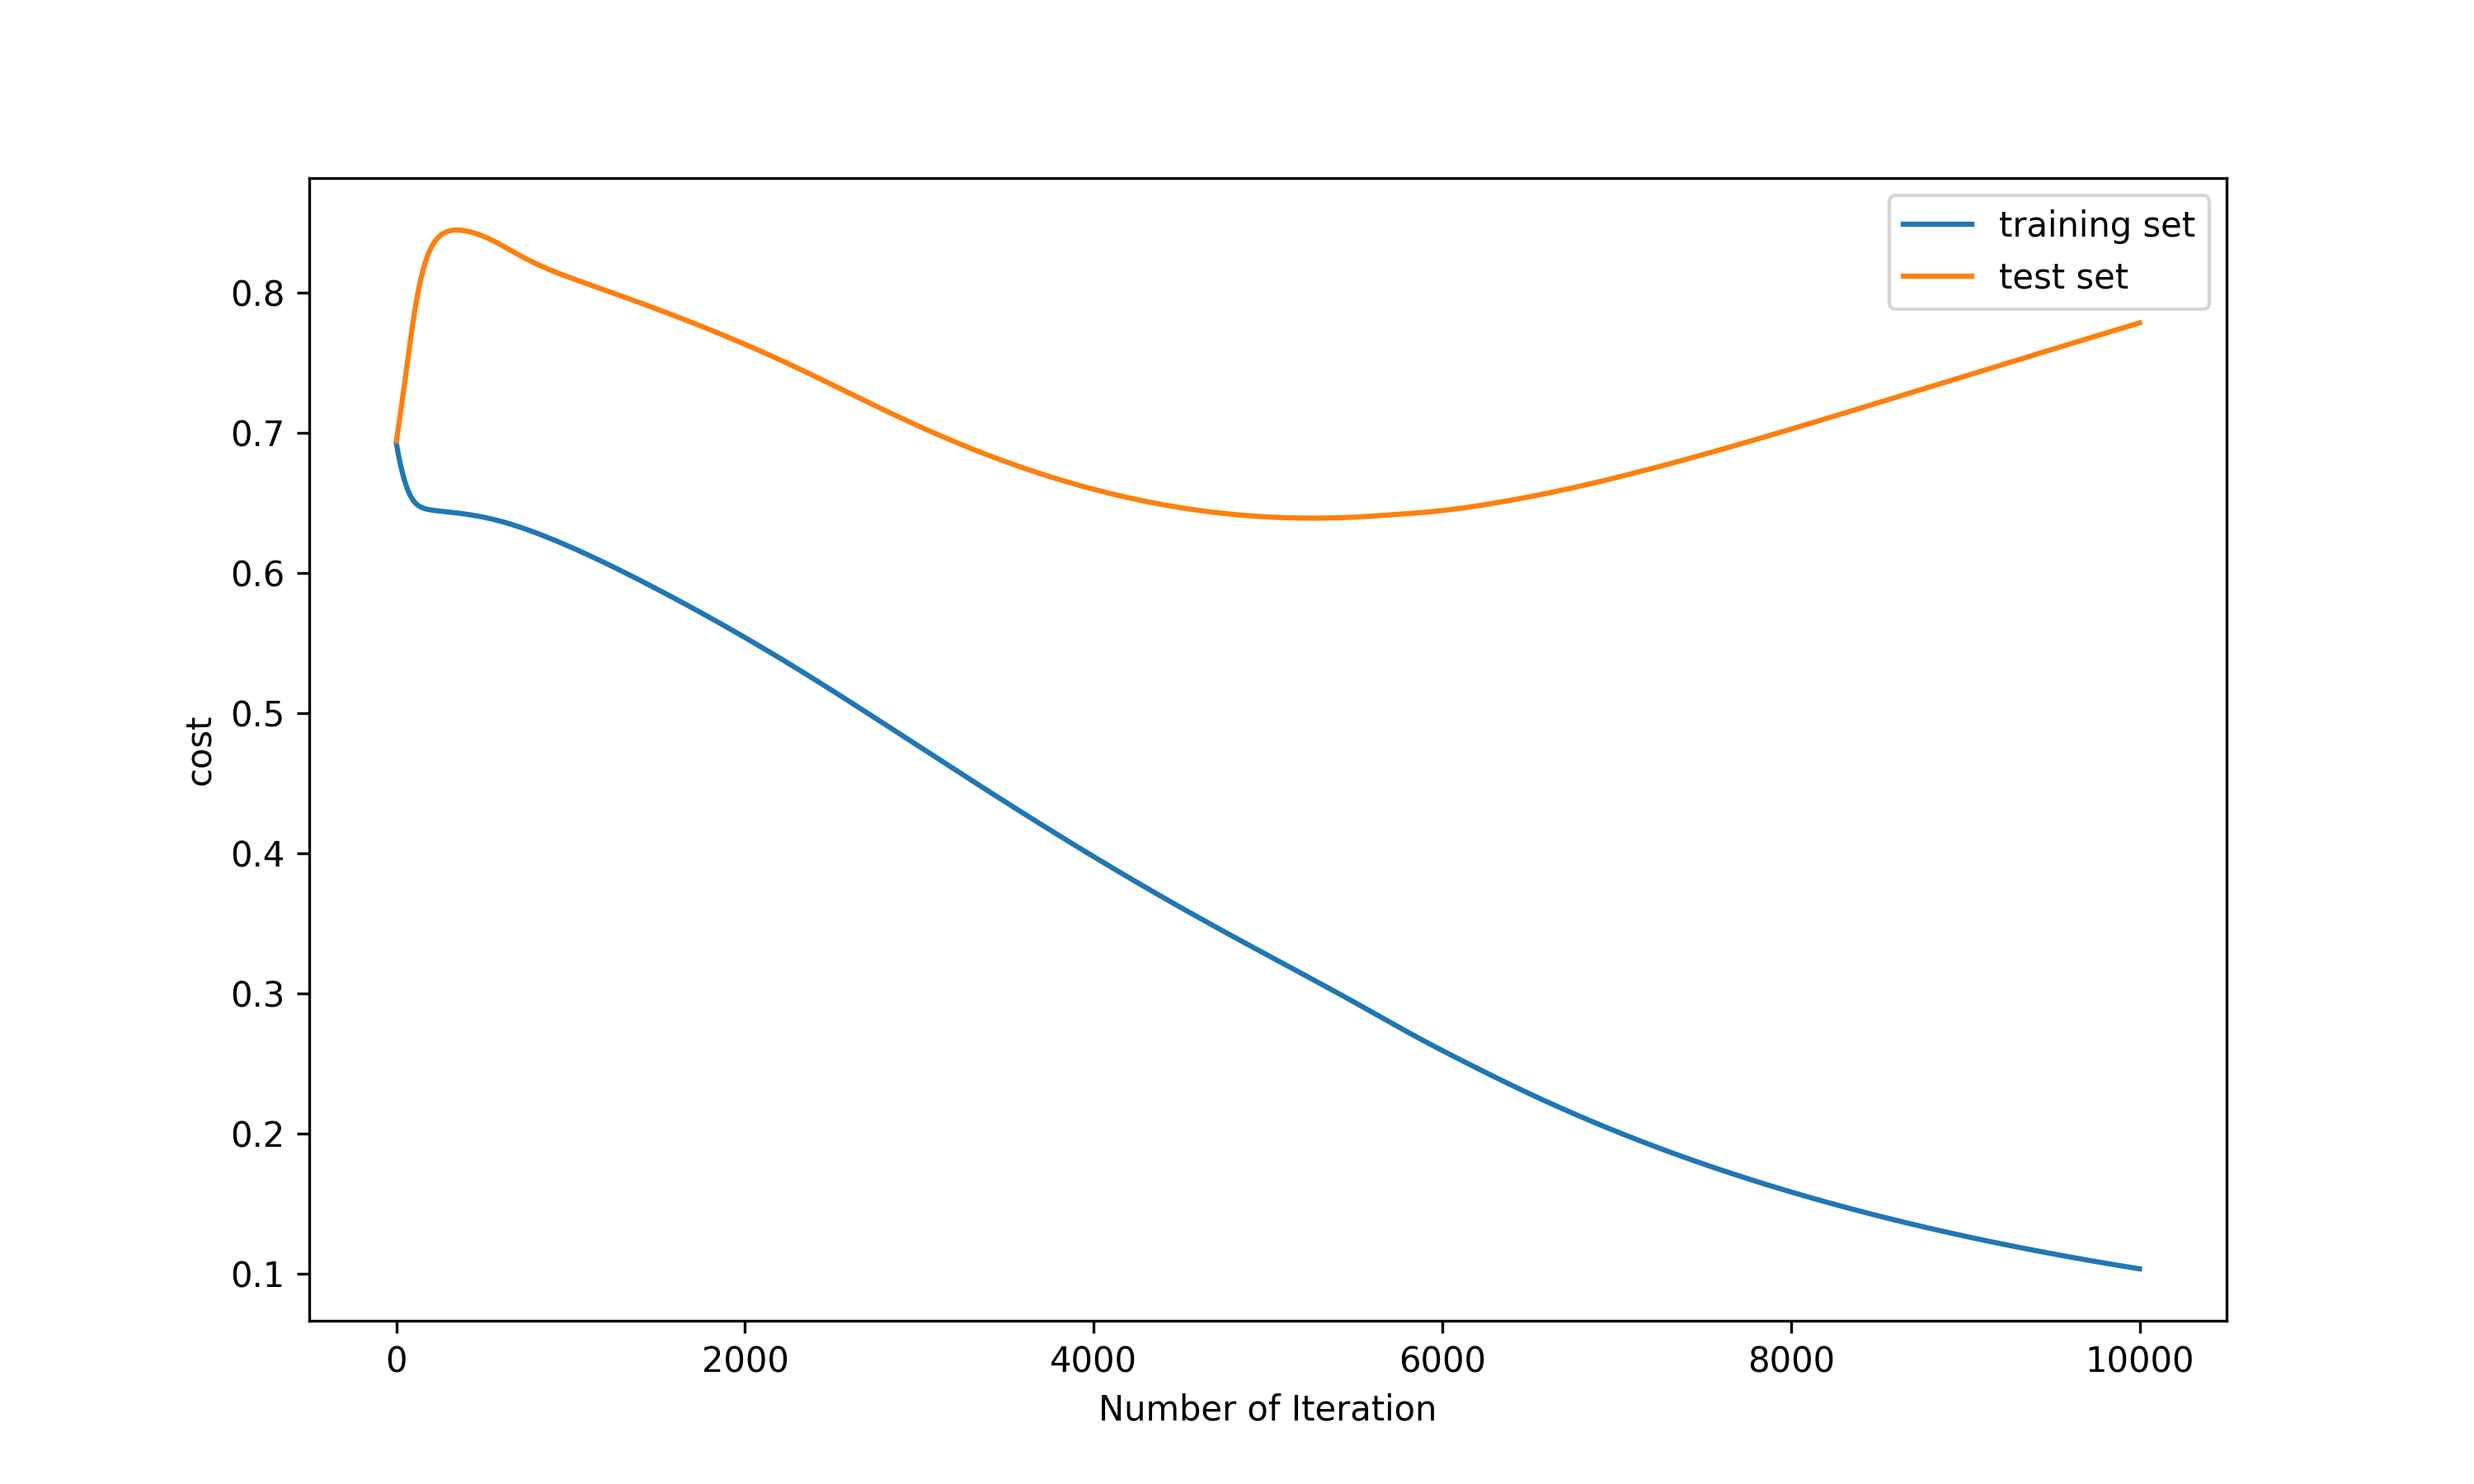
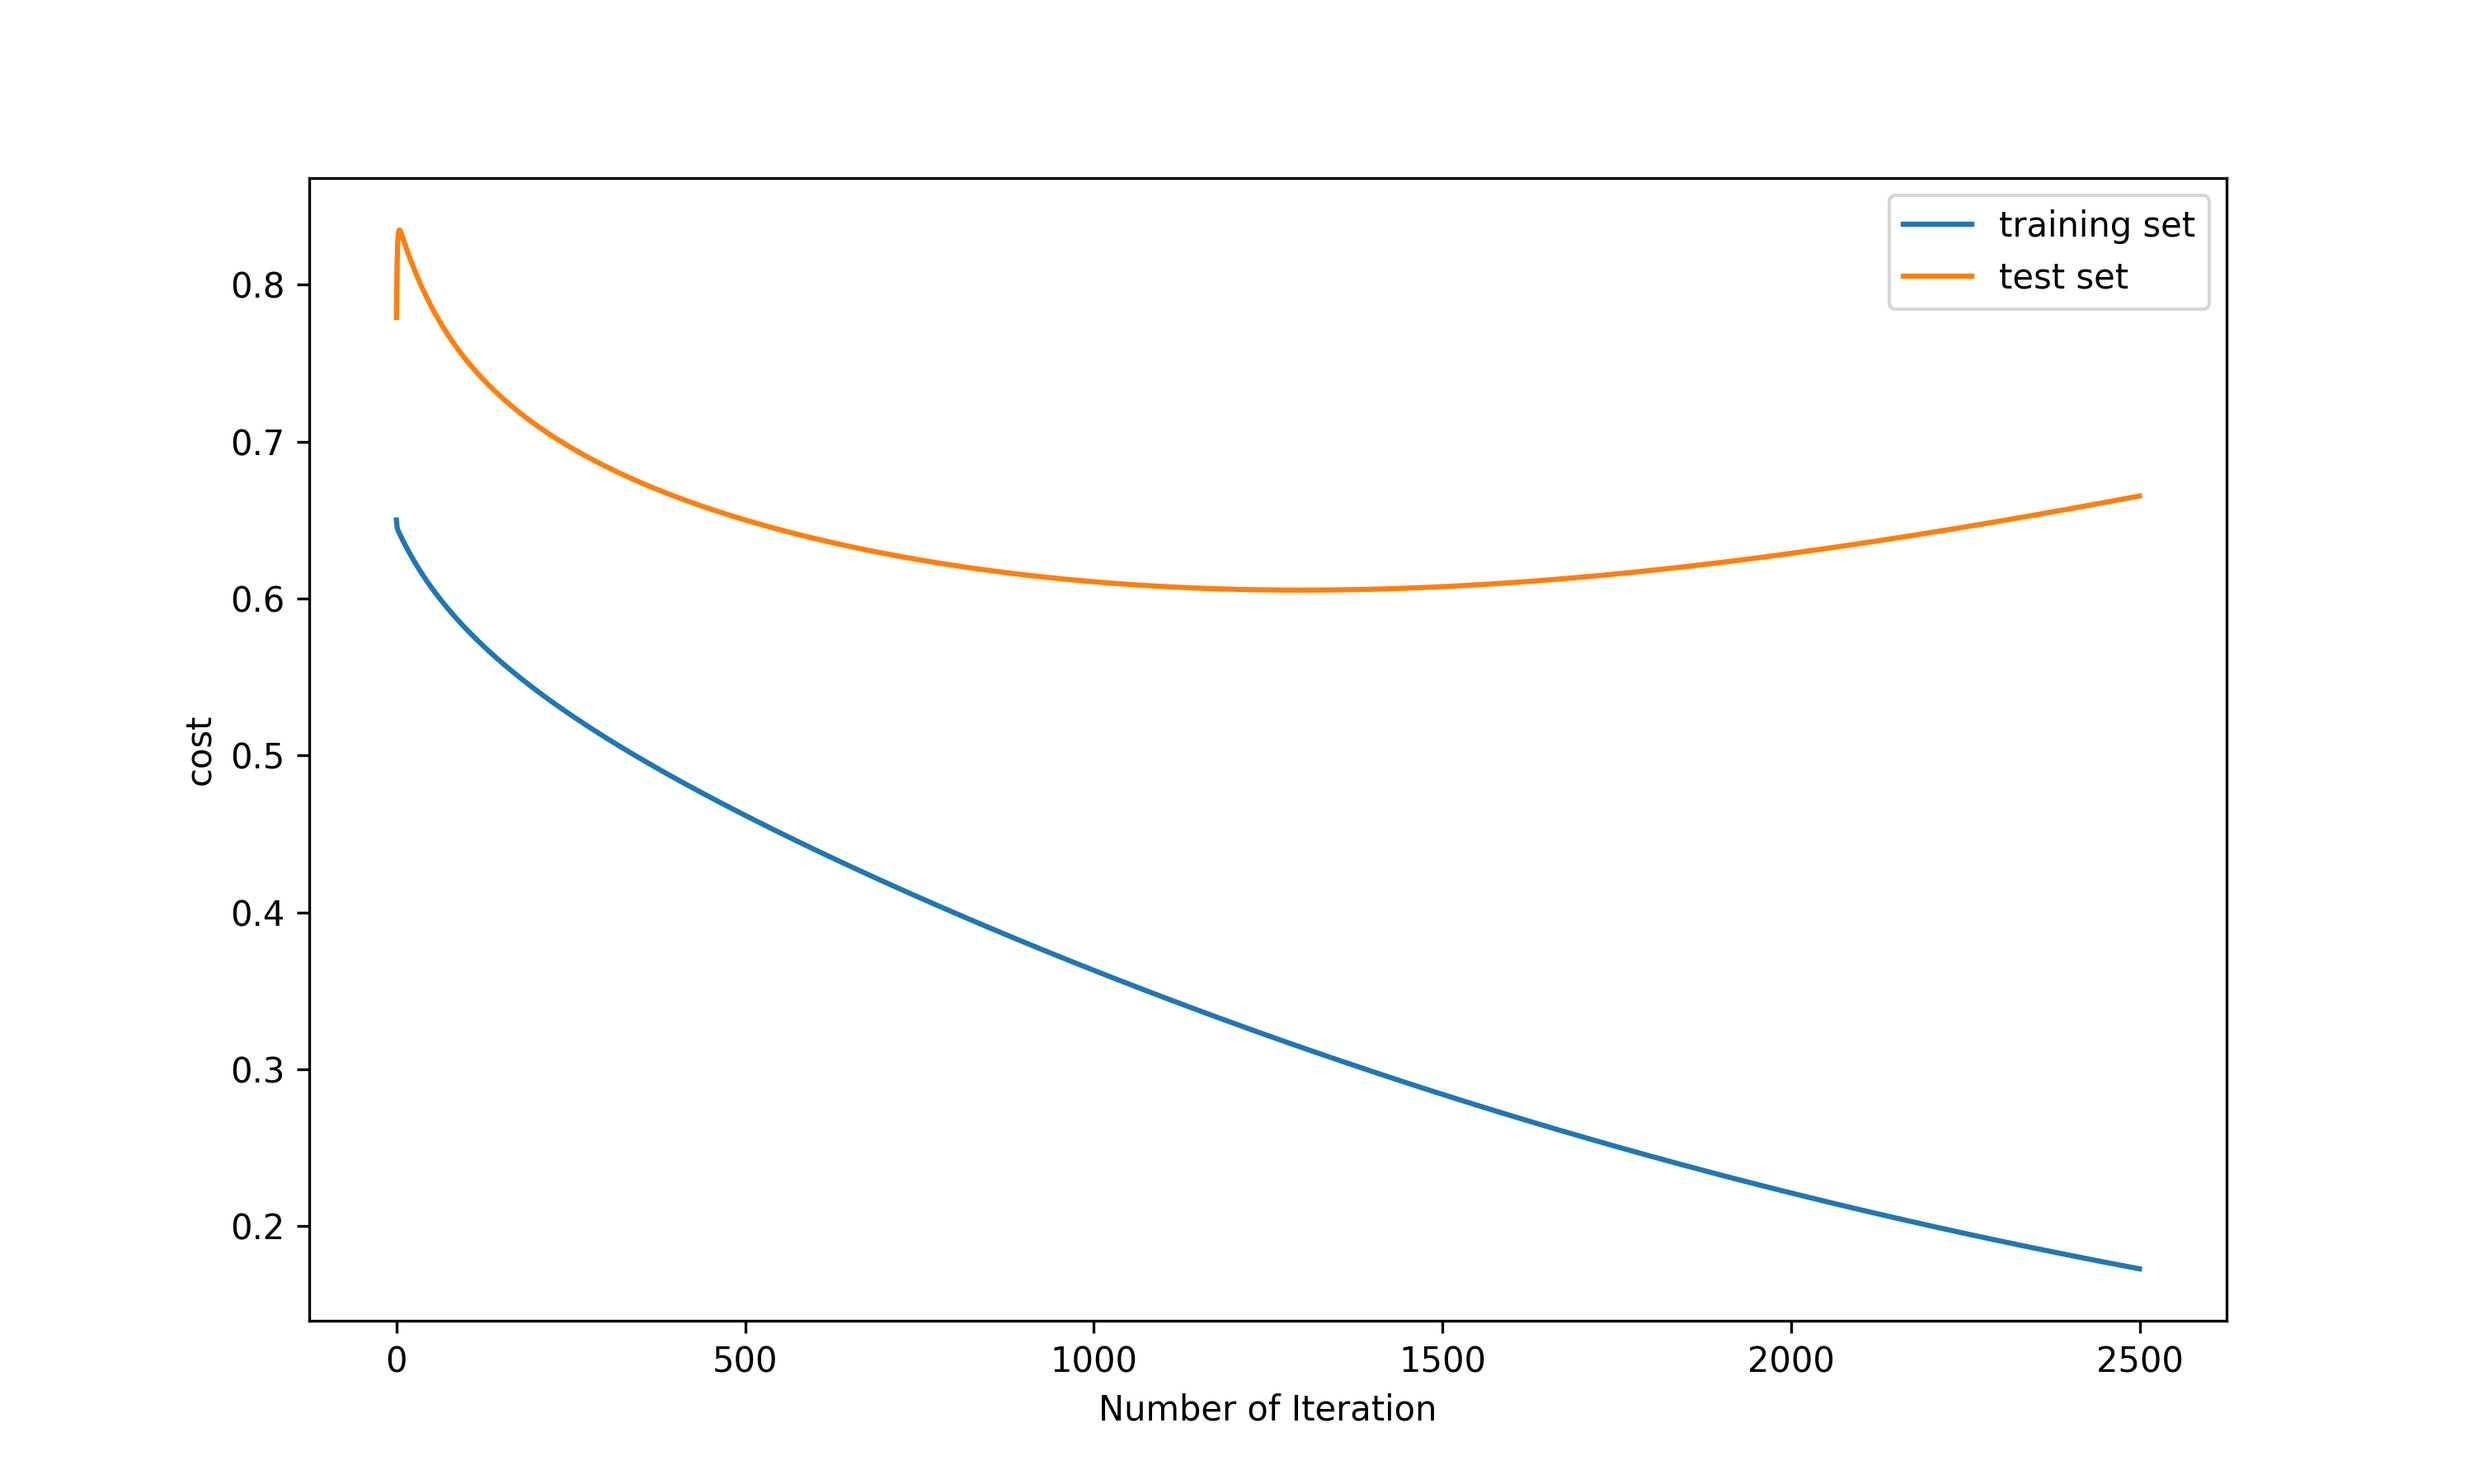
he. initialization.

diff --git a/L_hidden_layers/main.py b/L_hidden_layers/main.py
@@ -33,7 +33,7 @@ def initialize_parameters(dims):
 
     for i in range(1, len(dims)):
 
-        out["W" + str(i)] = np.random.randn(dims[i], dims[i - 1]) * 0.01
+        out["W" + str(i)] = np.random.randn(dims[i], dims[i - 1]) * np.sqrt(2 / (dims[i - 1]))
         out["b" + str(i)] = np.zeros((dims[i], 1))
 
     return out
@@ -145,8 +145,8 @@ def main():
     x_test = unroll(x_test)
 
     # number of units per each layer
-    layer_dims = [x_train.shape[0], 10, y_train.shape[0]]
-    max_iteration = 10000
+    layer_dims = [x_train.shape[0], 20, y_train.shape[0]]
+    max_iteration = 2500
     learning_rate = 0.0075
 
     # initialize parameters
